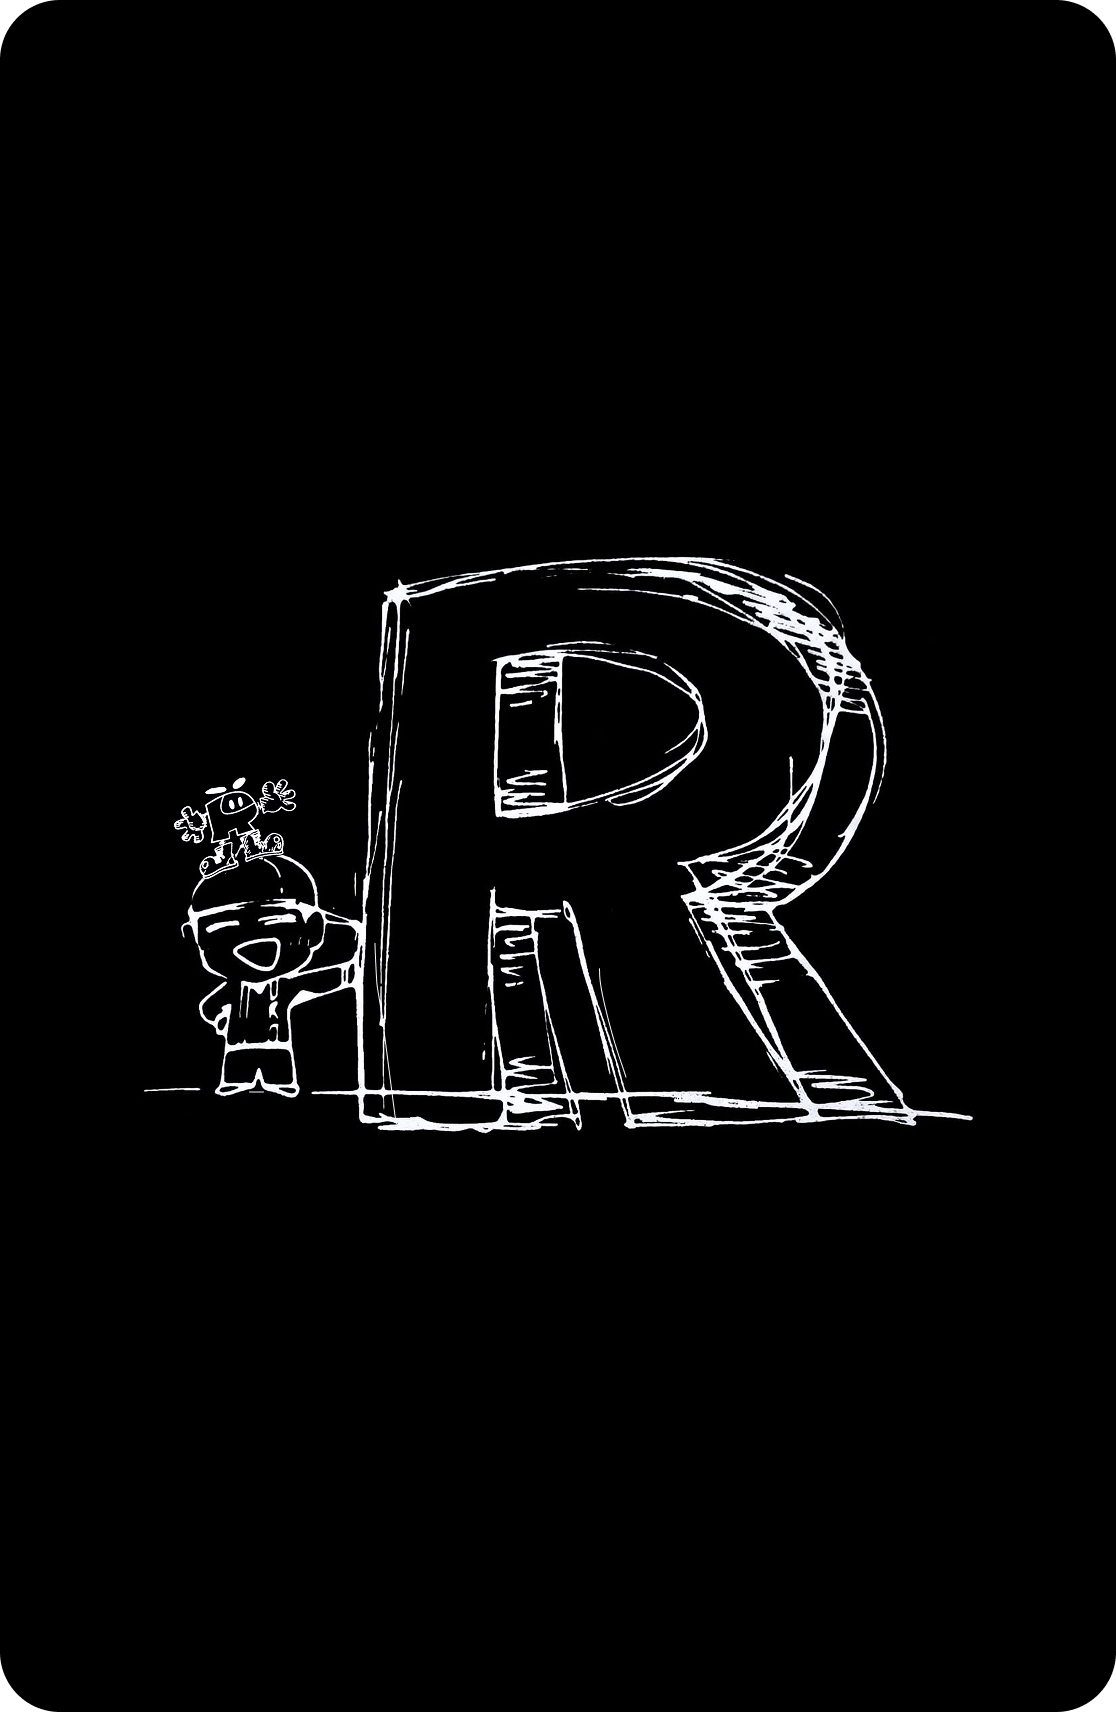
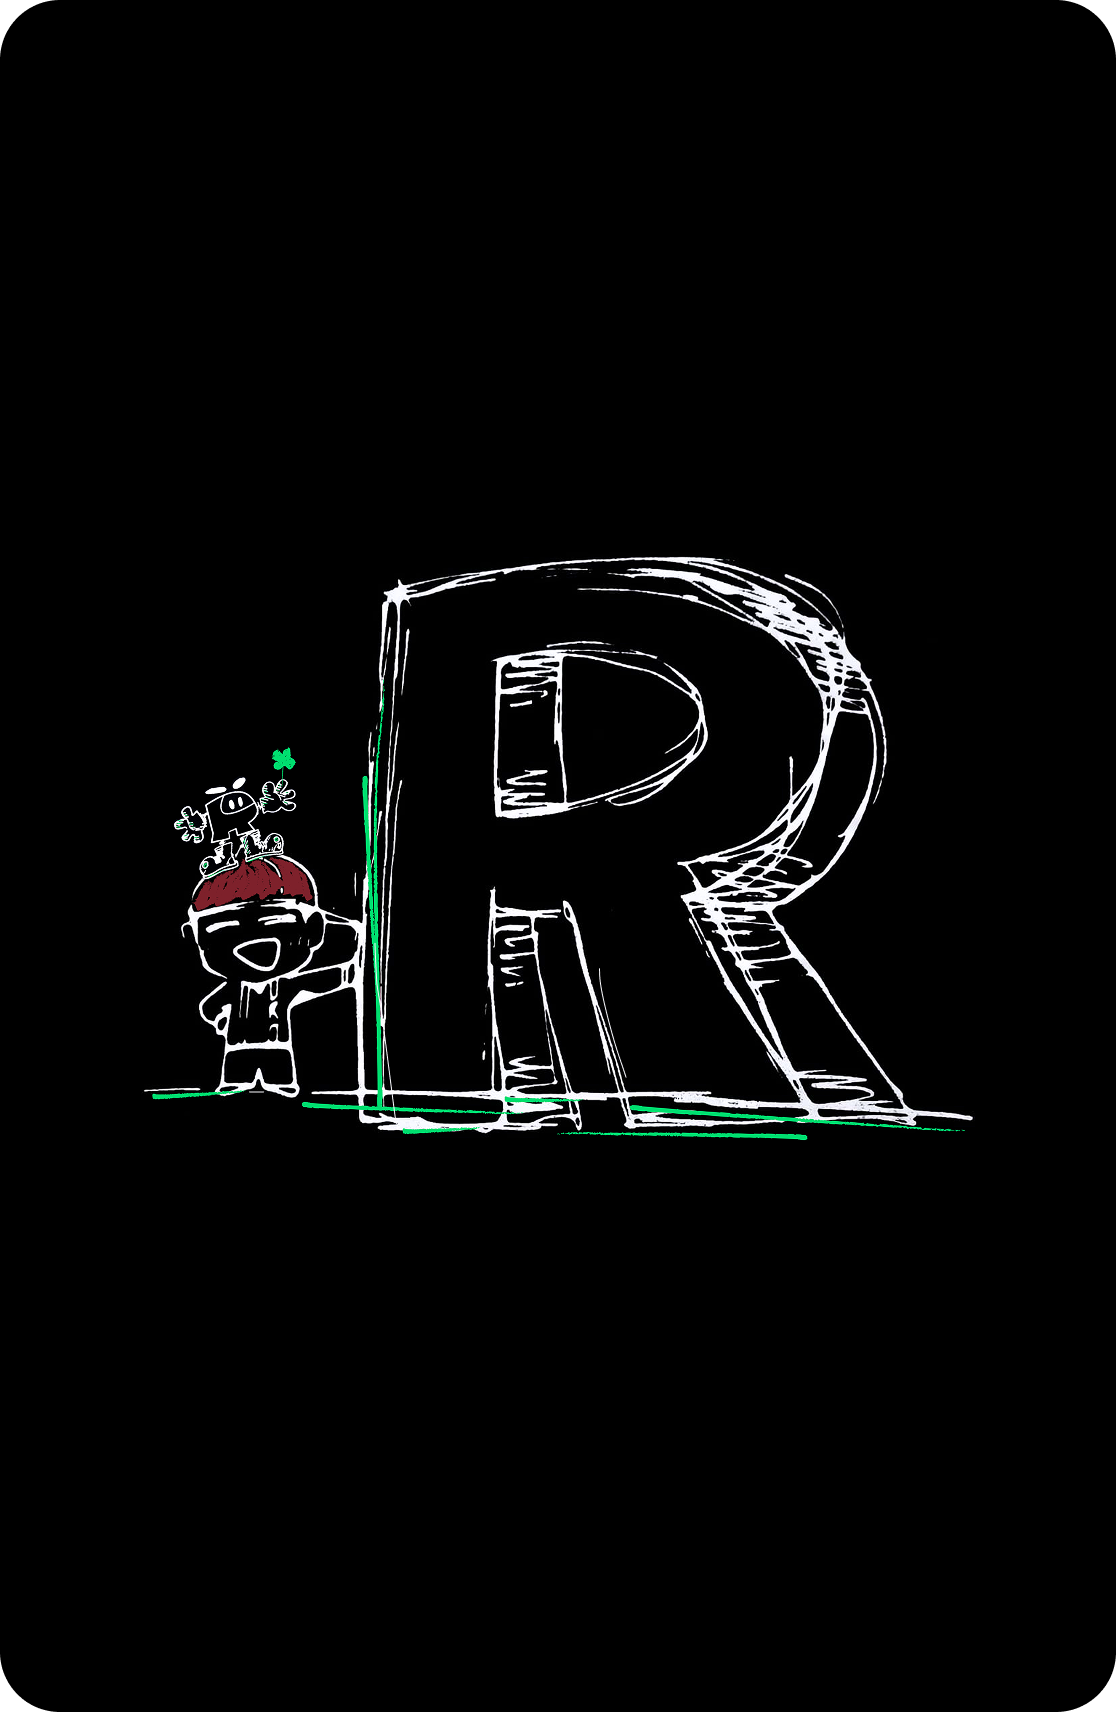
update photo

diff --git a/docs/index.html b/docs/index.html
@@ -13,7 +13,7 @@
   <!-- Open Graph -->
   <meta property="og:title" content="Rocky Photocards">
   <meta property="og:description" content="Template of Rocky's photocards for Hamo collectors">
-  <meta property="og:image" content="https://lilpeachyukie.github.io/rocky-photocards/assets/images/thumbnail.png">
+  <meta property="og:image" content="https://lilpeachyukie.github.io/rocky-photocards/assets/thumbnail.png">
   <meta property="og:url" content="https://lilpeachyukie.github.io/rocky-photocards/">
   <meta property="og:type" content="website">
   
@@ -21,7 +21,7 @@
   <meta name="twitter:card" content="summary_large_image">
   <meta name="twitter:title" content="Rocky Photocards">
   <meta name="twitter:description" content="Template of Rocky's photocards for Hamo collectors">
-  <meta name="twitter:image" content="https://lilpeachyukie.github.io/rocky-photocards/assets/images/thumbnail.png">
+  <meta name="twitter:image" content="https://lilpeachyukie.github.io/rocky-photocards/assets/thumbnail.png">
 
 <link rel="stylesheet" href="styles.css"><link rel="stylesheet" href="styles.css"></head>
 <body class="mat-typography">
